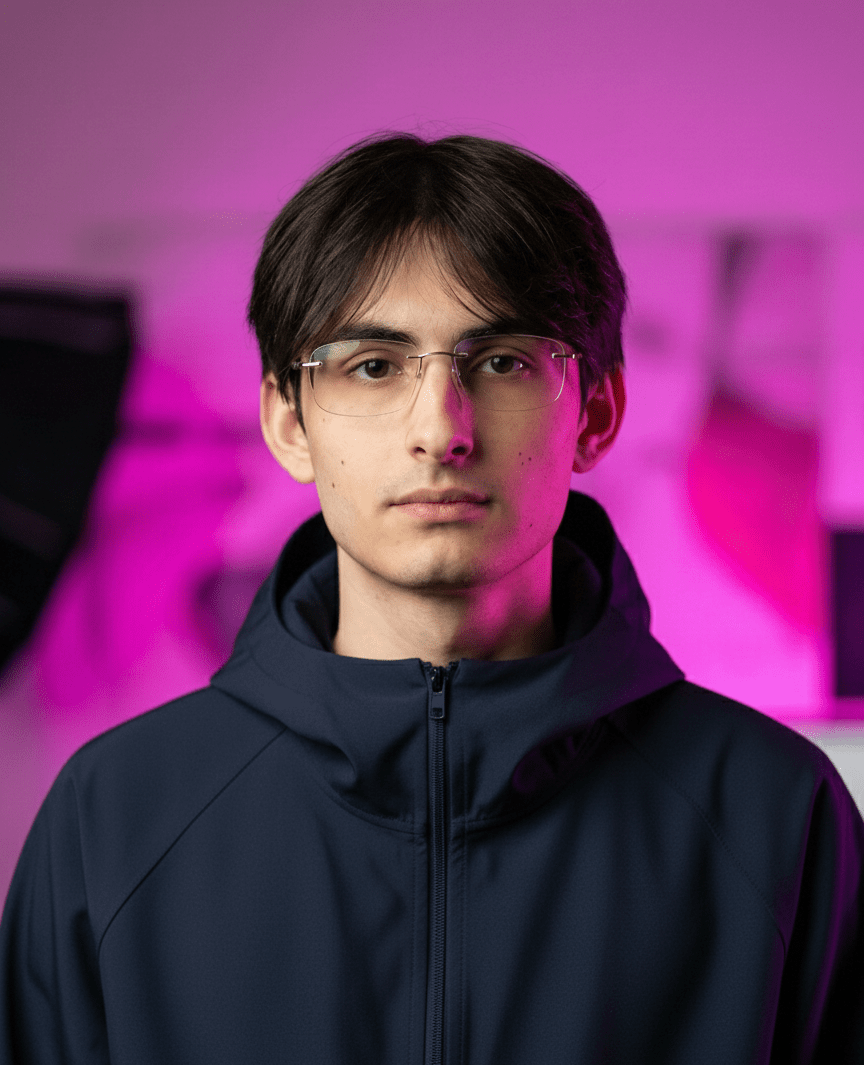
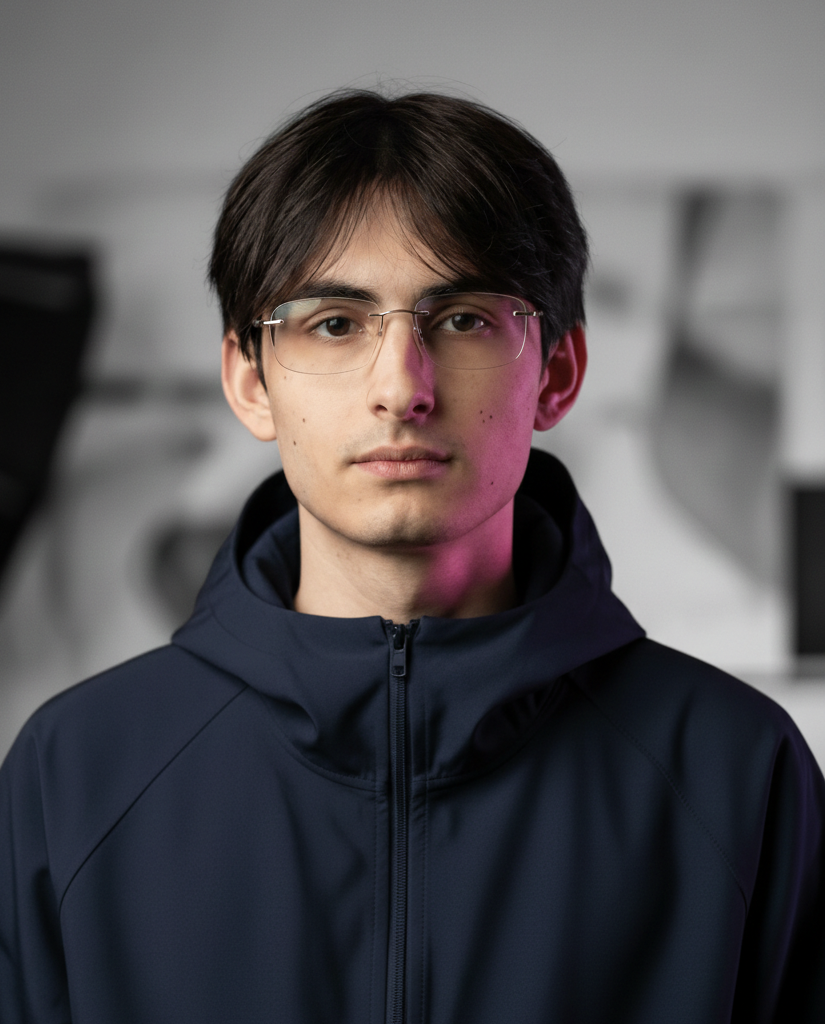
Refactor : update photo and terminal video player

diff --git a/components/TerminalVideoPlayer.vue b/components/TerminalVideoPlayer.vue
@@ -3,65 +3,44 @@
     <div class="terminal-header">
       <div class="terminal-title">{{ title || 'video-player.mp4' }}</div>
     </div>
-    
+
     <div class="video-container">
-        <div v-if="isBuffering" class="loading-overlay">
-            <span class="terminal-loader">LOADING <span class="dots">{{ loadingDots }}</span></span>
-        </div>
-        <video
-            ref="videoPlayer"
-            :src="src"
-            :poster="poster"
-            class="video-element"
-            muted
-            playsinline
-            @loadedmetadata="onLoadedMetadata"
-            @timeupdate="onTimeUpdate"
-            @play="onPlay"
-            @pause="onPause"
-            @ended="onEnded"
-            @waiting="onWaiting"
-            @canplay="onCanPlay"
-            @loadstart="onLoadStart"
-        >
-            <p class="text-foreground/60 p-4">Your browser does not support the video tag.</p>
-        </video>
-        <div class="video-controls">
+      <div v-if="isBuffering" class="loading-overlay">
+        <span class="terminal-loader">LOADING <span class="dots">{{ loadingDots }}</span></span>
+      </div>
+      <video ref="videoPlayer" :src="src" :poster="poster" class="video-element" muted playsinline
+        @loadedmetadata="onLoadedMetadata" @timeupdate="onTimeUpdate" @play="onPlay" @pause="onPause" @ended="onEnded"
+        @waiting="onWaiting" @canplay="onCanPlay" @loadstart="onLoadStart">
+        <p class="text-foreground/60 p-4">Your browser does not support the video tag.</p>
+      </video>
+      <div class="video-controls">
         <div class="controls-row">
-          <button 
-            @click="togglePlay" 
-            class="control-btn play-btn"
-            :aria-label="isPlaying ? 'Pause' : 'Play'"
-          >
+          <button @click="togglePlay" class="control-btn play-btn" :aria-label="isPlaying ? 'Pause' : 'Play'">
             <span v-if="!isPlaying">▶</span>
             <span v-else>⏸</span>
           </button>
-          
+
           <div class="time-display">
             <span class="time-current">{{ formatTime(currentTime) }}</span>
             <span class="time-separator">/</span>
             <span class="time-total">{{ formatTime(duration) }}</span>
           </div>
-          
+
           <div class="progress-container" @click="seek">
             <div class="progress-bar">
               <div class="progress-filled" :style="{ width: progressPercentage + '%' }"></div>
             </div>
           </div>
-          
+
           <!-- Volume controls removed as requested -->
-          
-          <button 
-            @click="toggleFullscreen" 
-            class="control-btn fullscreen-btn"
-            aria-label="Toggle fullscreen"
-          >
+
+          <button @click="toggleFullscreen" class="control-btn fullscreen-btn" aria-label="Toggle fullscreen">
             ⛶
           </button>
         </div>
       </div>
     </div>
-    
+
     <div class="terminal-status-bar">
       <span class="status-text">{{ statusText }}</span>
       <span class="status-indicator" :class="{ active: isPlaying }"></span>
@@ -70,7 +49,7 @@
 </template>
 
 <script setup lang="ts">
-import { ref, computed, onMounted, onUnmounted } from 'vue'
+import { ref, computed, onMounted, onUnmounted, watch } from 'vue'
 
 interface Props {
   src: string
@@ -138,53 +117,57 @@ const onEnded = () => {
 }
 
 const onWaiting = () => {
-    isBuffering.value = true
-    statusText.value = 'Buffering...'
+  isBuffering.value = true
+  statusText.value = 'Buffering...'
 }
 
 const onCanPlay = () => {
-    isBuffering.value = false
-    if (isPlaying.value) {
-        statusText.value = 'Playing'
-    } else {
-        statusText.value = 'Ready'
-    }
+  isBuffering.value = false
+  // Récupérer la durée ici aussi au cas où loadedmetadata n'a pas été déclenché
+  if (videoPlayer.value && duration.value === 0) {
+    duration.value = videoPlayer.value.duration
+  }
+  if (isPlaying.value) {
+    statusText.value = 'Playing'
+  } else {
+    statusText.value = 'Ready'
+  }
 }
 
 const onLoadStart = () => {
-    isBuffering.value = true
-    statusText.value = 'Loading...'
+  isBuffering.value = true
+  statusText.value = 'Loading...'
 }
 
 let dotsInterval: ReturnType<typeof setInterval> | null = null
 
 const startDotsAnimation = () => {
-    if (dotsInterval) return
-    let count = 0
-    dotsInterval = setInterval(() => {
-        count = (count + 1) % 4
-        loadingDots.value = '.'.repeat(count)
-    }, 500)
+  if (dotsInterval) return
+  let count = 0
+  dotsInterval = setInterval(() => {
+    count = (count + 1) % 4
+    loadingDots.value = '.'.repeat(count)
+  }, 500)
 }
 
 const stopDotsAnimation = () => {
-    if (dotsInterval) {
-        clearInterval(dotsInterval)
-        dotsInterval = null
-    }
+  if (dotsInterval) {
+    clearInterval(dotsInterval)
+    dotsInterval = null
+  }
 }
 
 watch(isBuffering, (newValue) => {
-    if (newValue) {
-        startDotsAnimation()
-    } else {
-        stopDotsAnimation()
-    }
+  if (newValue) {
+    startDotsAnimation()
+  } else {
+    stopDotsAnimation()
+  }
 })
 
 const togglePlay = () => {
   if (!videoPlayer.value || !isLoaded.value) return
-  
+
   if (isPlaying.value) {
     videoPlayer.value.pause()
   } else {
@@ -197,10 +180,10 @@ const togglePlay = () => {
 const pauseOtherVideos = () => {
   // Pause toutes les vidéos sauf celle-ci - version optimisée
   if (!videoPlayer.value) return
-  
+
   const videos = document.querySelectorAll('video')
   const currentVideo = videoPlayer.value
-  
+
   // Utiliser forEach classique pour meilleures performances
   for (let i = 0; i < videos.length; i++) {
     const video = videos[i] as HTMLVideoElement
@@ -218,18 +201,18 @@ const pauseOtherVideos = () => {
 
 const seek = (event: MouseEvent) => {
   if (!videoPlayer.value) return
-  
+
   const progressContainer = event.currentTarget as HTMLElement
   const rect = progressContainer.getBoundingClientRect()
   const clickX = event.clientX - rect.left
   const percentage = clickX / rect.width
-  
+
   videoPlayer.value.currentTime = percentage * duration.value
 }
 
 const toggleFullscreen = () => {
   if (!videoPlayer.value) return
-  
+
   if (!document.fullscreenElement) {
     videoPlayer.value.requestFullscreen().catch(err => {
       console.error(`Error attempting to enable fullscreen: ${err.message}`)
@@ -240,6 +223,7 @@ const toggleFullscreen = () => {
 }
 
 const formatTime = (seconds: number): string => {
+  if (!Number.isFinite(seconds) || isNaN(seconds)) return '0:00'
   const mins = Math.floor(seconds / 60)
   const secs = Math.floor(seconds % 60)
   return `${mins}:${secs.toString().padStart(2, '0')}`
@@ -251,9 +235,9 @@ let isObserverActive = false
 
 const setupIntersectionObserver = () => {
   if (!videoPlayer.value || isObserverActive) return
-  
+
   isObserverActive = true
-  
+
   if ('IntersectionObserver' in window) {
     intersectionObserver = new IntersectionObserver((entries) => {
       entries.forEach(entry => {
@@ -287,19 +271,19 @@ const setupIntersectionObserver = () => {
 
 const loadVideo = () => {
   if (!videoPlayer.value || isLoaded.value) return
-  
+
   isLoaded.value = true
-  
+
   // Force mute always
   if (videoPlayer.value) {
     videoPlayer.value.muted = true
     videoPlayer.value.volume = 0
   }
-  
+
   if (props.autoplay && isVisible.value) {
     videoPlayer.value.play()
   }
-  
+
   // Si pas de poster spécifié, capturer la première frame comme thumbnail
   if (!props.poster && !props.forceMute) {
     videoPlayer.value.addEventListener('loadeddata', () => {
@@ -329,7 +313,7 @@ onUnmounted(() => {
     isObserverActive = false
   }
   stopDotsAnimation()
-  
+
   // Nettoyage complet
   if (videoPlayer.value) {
     videoPlayer.value.pause()
@@ -359,15 +343,15 @@ onUnmounted(() => {
 }
 
 .loading-overlay {
-    @apply absolute inset-0 flex items-center justify-center bg-black/80 z-10;
+  @apply absolute inset-0 flex items-center justify-center bg-black/80 z-10;
 }
 
 .terminal-loader {
-    @apply text-white font-mono text-sm tracking-wider;
+  @apply text-white font-mono text-sm tracking-wider;
 }
 
 .dots {
-    @apply inline-block w-8 text-left;
+  @apply inline-block w-8 text-left;
 }
 
 .video-element {
@@ -384,20 +368,20 @@ onUnmounted(() => {
 }
 
 .control-btn {
-  @apply bg-foreground/20 hover:bg-foreground/30 text-foreground border border-foreground/30 rounded px-3 py-1 transition-colors;
+  @apply bg-white/20 hover:bg-white/30 text-white border border-white/30 rounded px-3 py-1 transition-colors;
   @apply flex items-center justify-center min-w-[32px] h-8;
 }
 
 .control-btn:hover {
-  @apply bg-foreground/30;
+  @apply bg-white/30;
 }
 
 .time-display {
-  @apply text-foreground/80 text-sm font-mono flex items-center gap-1;
+  @apply text-white/80 text-sm font-mono flex items-center gap-1;
 }
 
 .time-separator {
-  @apply text-foreground/60 mx-1;
+  @apply text-white/60 mx-1;
 }
 
 .progress-container {
@@ -405,11 +389,11 @@ onUnmounted(() => {
 }
 
 .progress-bar {
-  @apply bg-foreground/20 h-2 rounded-full overflow-hidden;
+  @apply bg-white/20 h-2 rounded-full overflow-hidden;
 }
 
 .progress-filled {
-  @apply bg-foreground h-full transition-all duration-100;
+  @apply bg-white h-full transition-all duration-100;
 }
 
 .volume-slider {
@@ -441,11 +425,11 @@ onUnmounted(() => {
   .controls-row {
     @apply flex-wrap gap-2;
   }
-  
+
   .time-display {
     @apply order-first w-full justify-center mb-2;
   }
-  
+
   .progress-container {
     @apply order-last w-full mt-2;
   }

diff --git a/components/About.vue b/components/About.vue
@@ -22,10 +22,10 @@
                             </div>
                         </div>
                     </div>
-                    
+
                     <div class="pt-2">
-                        <a href="https://github.com/EthanCarollo" target="_blank" rel="noopener noreferrer" 
-                           class="inline-flex items-center gap-2 text-sm text-foreground hover:text-foreground/70 transition-colors group/link">
+                        <a href="https://github.com/EthanCarollo" target="_blank" rel="noopener noreferrer"
+                            class="inline-flex items-center gap-2 text-sm text-foreground hover:text-foreground/70 transition-colors group/link">
                             <span class="group-hover/link:translate-x-1 transition-transform">→</span>
                             GitHub
                         </a>
@@ -34,9 +34,9 @@
 
                 <!-- Photo -->
                 <div class="relative group">
-                    <div class="aspect-[3/4] w-full relative overflow-hidden bg-foreground/5">
+                    <div class="aspect-[3/4] w-full relative overflow-hidden bg-foreground/5 rounded-lg">
                         <img src="/images/photome.png" alt="Ethan Carollo"
-                            class="w-full h-full object-cover filter grayscale contrast-125 brightness-110" />
+                            class="w-full h-full object-cover filter rounded-lg" />
                         <!-- Border frame effect -->
                         <div class="absolute inset-0 border-2 border-foreground/10 pointer-events-none"></div>
                     </div>

diff --git a/content/projects/rituals.fr.md b/content/projects/rituals.fr.md
@@ -9,13 +9,28 @@ repo: "https://github.com/methil-mods/rituals"
 link: "https://ethanzxv.itch.io/rituals"
 ---
 
-**Rituals** est un jeu d'énigmes atmosphérique créé en collaboration avec **Théo ([nak0x](https://github.com/nak0x))** dans le cadre de la [Cosmic Horrors Jam 4](https://itch.io/jam/cosmichorrorsjam4). La progression dépend de votre capacité à découvrir et à reproduire des symboles anciens. Le cœur du gameplay repose sur une mécanique unique : la découverte de dessins cachés qui, une fois tracés correctement, permettent d'invoquer des monstres via des rituels mystiques pour débloquer la suite de l'aventure.
 
-### Reconnaissance par Intelligence Artificielle
+# Introduction
+
+Tout a commencé par une envie simple : participer à une Game Jam avec Théo ([Nak0x](https://github.com/nak0x)). Nous avons jeté notre dévolu sur la [Cosmic Horrors Jam 4](https://itch.io/jam/cosmichorrorsjam4), dont le thème tournait autour de l'horreur cosmique.
+
+Dès le départ, l'idée a germé de créer un Escape Game où le joueur devrait invoquer des esprits en traçant des dessins pour progresser. Mais soyons honnêtes : c'était surtout un immense prétexte pour mettre en pratique l'entraînement d'un CNN (Réseau de Neurones Convolutif) dans un cas concret avec PyTorch.
+
+# Le concept
+
+**Rituals** est donc un jeu d'énigmes atmosphérique. La progression dépend de votre capacité à découvrir et à reproduire des symboles anciens. Le cœur du gameplay repose sur cette mécanique unique : la découverte de dessins cachés qui, une fois tracés correctement, permettent d'invoquer des monstres via des rituels mystiques pour débloquer la suite de l'aventure.
+
+# La technique derrière la magie
+
+## Reconnaissance par Intelligence Artificielle
 
 Pour ce projet, un **CNN (Convolutional Neural Network)** a été conçu spécifiquement pour reconnaître les différents rituels tracés par le joueur. Ce réseau de neurones permet une interaction fluide et organique, transformant de simples dessins en commandes de jeu complexes.
 
 - **Entraînement** : Le modèle a été entraîné à l'aide de PyTorch. Vous pouvez consulter le [notebook d'entraînement (ipynb)](https://github.com/methil-mods/rituals/blob/main/ritualcnn/ritualcnn.ipynb) pour voir les détails de l'architecture et du dataset.
 - **Données** : Le dataset est composé de milliers d'exemples de rituels dessinés à la main, comme cet [exemple de donnée brute](https://github.com/methil-mods/rituals/blob/main/ritualcnn/data/flosculus/flosculus-ritual11.png).
+
+> C'était un défi intéressant de faire tourner un modèle d'IA directement dans le gameplay !
+
+# Liens
 
 Retrouvez le code source complet sur le [repository GitHub officiel](https://github.com/methil-mods/rituals).
